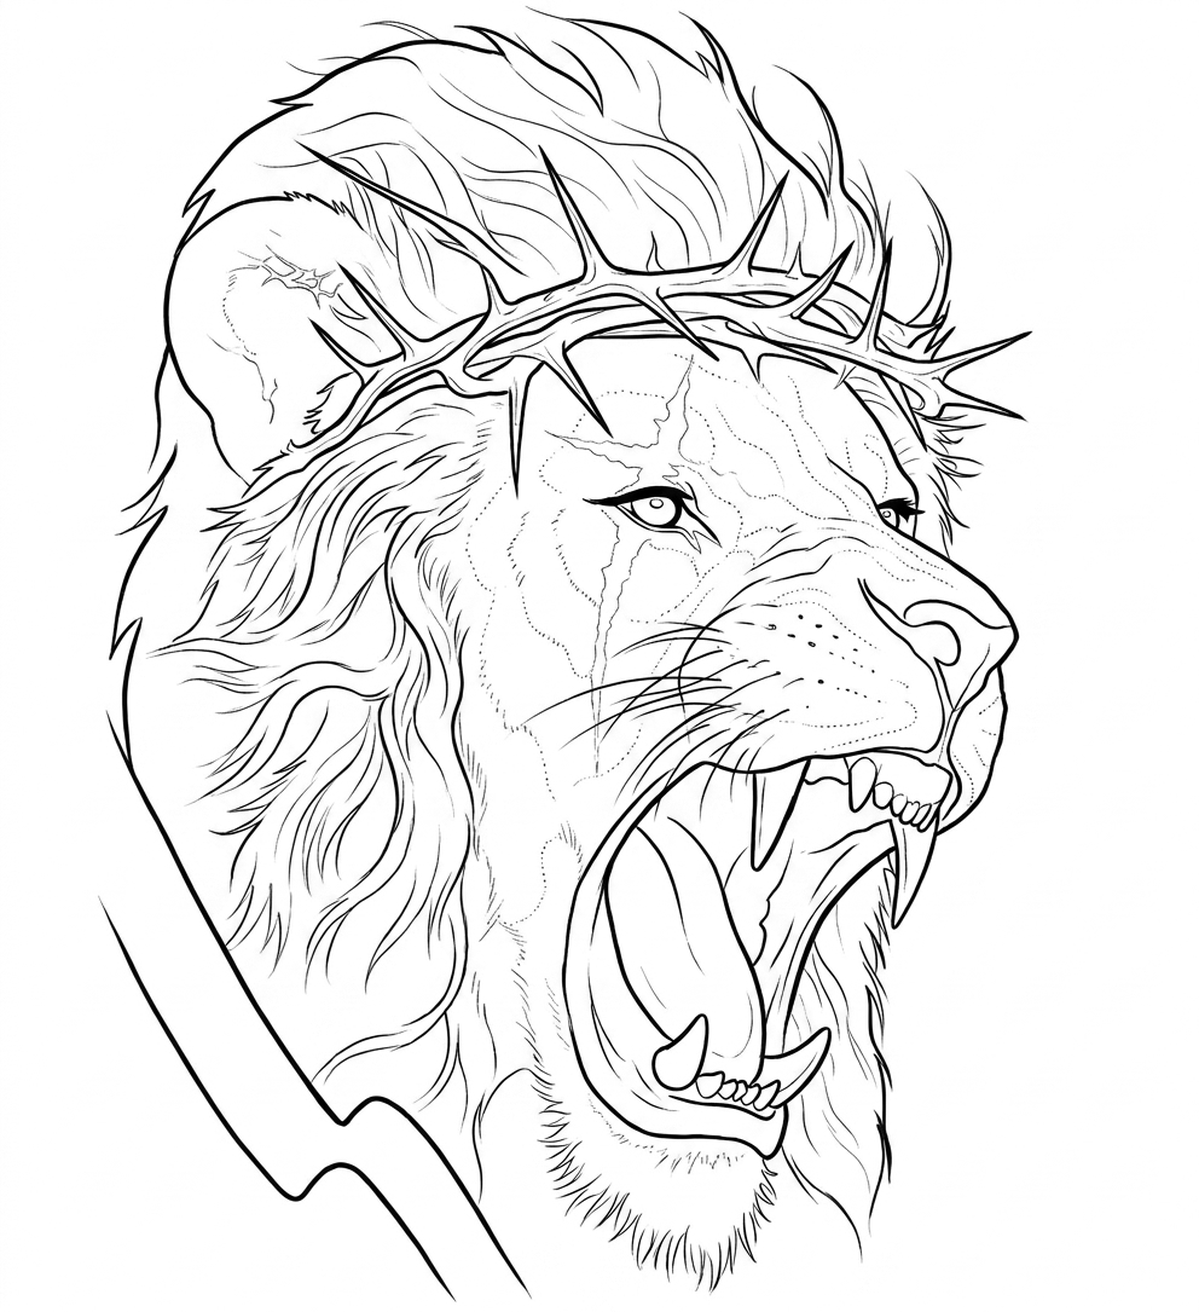
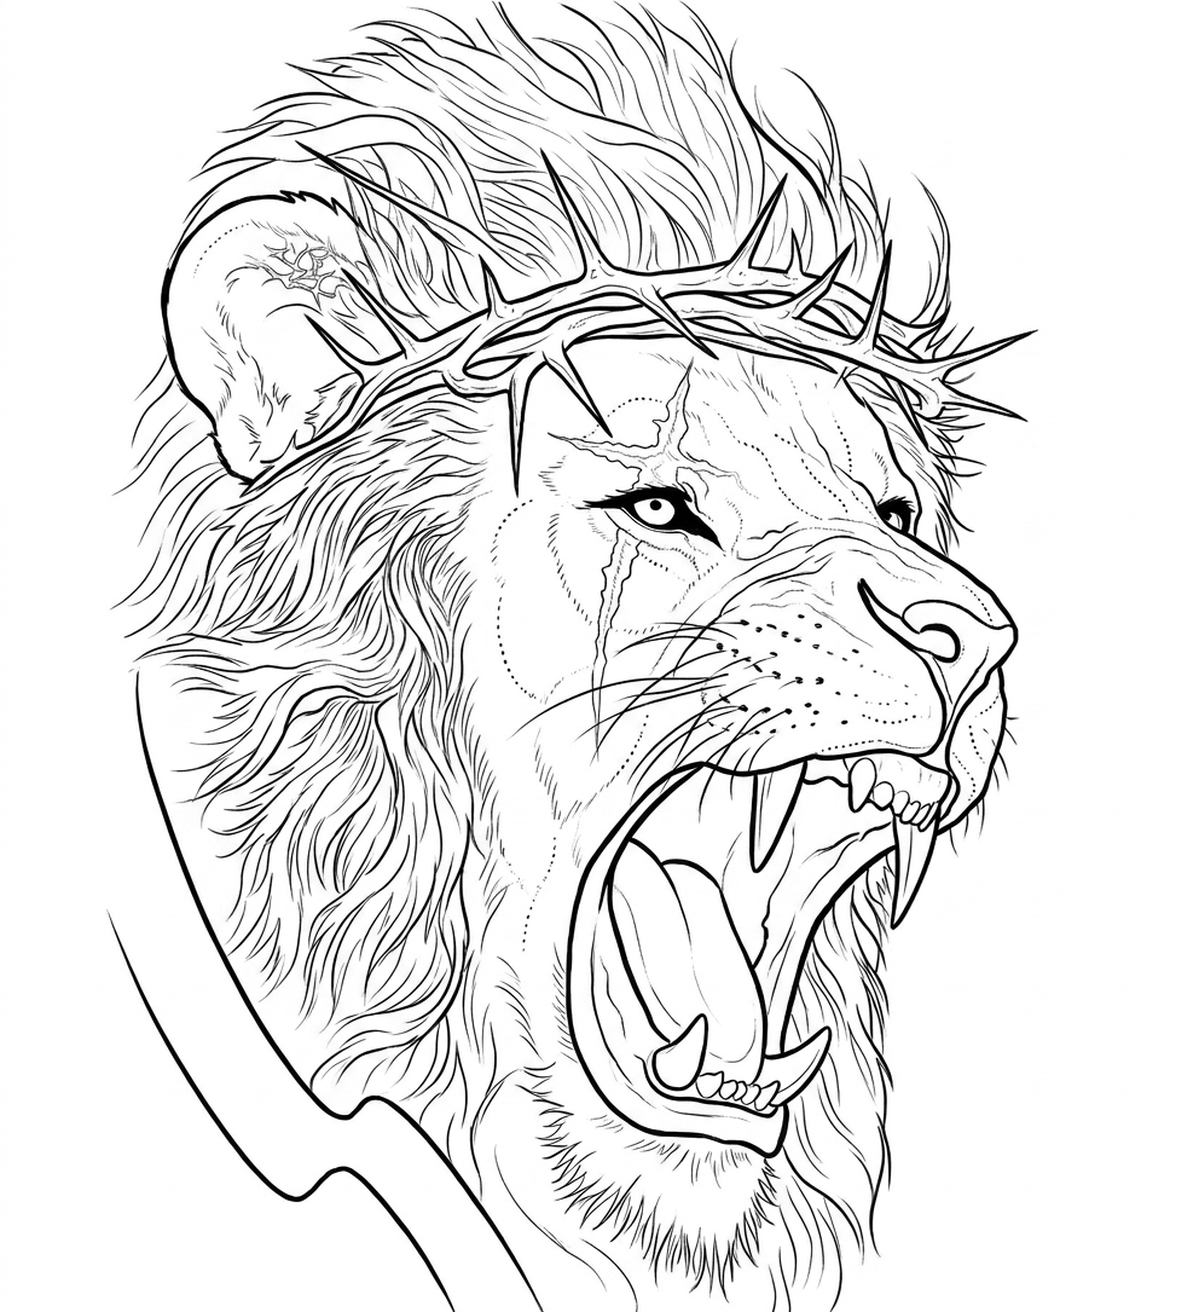
auto-commit for ed74ab05-57c7-44d5-9584-8d9af0164736

diff --git a/backend/static/blueprint_heavy.html b/backend/static/blueprint_heavy.html
@@ -25,6 +25,8 @@ h2{color:#c9a227;font-size:18px;margin:18px 0 10px}
     <li><b>Heavy+ detail policy:</b> preserve detail, reduce visual noise ~10–20%. Hair follows directional flow (not random strands). Texture is selective, not full-surface coverage. Facial dotted guides retained. Avoid clutter.</li>
     <li><b>Consistency:</b> <code>temperature=0.0</code> is now the default. Same reference → consistent structure → predictable line placement.</li>
     <li><b>Post-processing:</b> Otsu thresholding removed. Grayscale line values preserved → anti-aliased edges, line-weight variation, and dotted-line integrity now match the raw AI output. Background still removed via alpha channel (transparent PNG).</li>
+    <li><b>Refinement pass:</b> controlled clarity lift — subtle strand break-up (~10–15%), directional micro-lines + highlight-flow guides in hair, slightly clearer plane-change transitions on the face. No density increase, no fuzz. New marks REPLACE weak lines; they do not stack.</li>
+    <li><b>Detail priority:</b> STRUCTURE > FLOW > TEXTURE. Readability always wins.</li>
     <li><b>Removed entirely:</b> fill logic, shading generation, structure-altering "enhancement", random black region creation.</li>
   </ul>
 </div>

diff --git a/backend/server.py b/backend/server.py
@@ -1911,7 +1911,41 @@ def build_blueprint_prompt(line_color: str, detail_level: str) -> str:
             "- Avoid clutter, redundant micro-lines, and over-density. Every mark "
             "describes something the reference actually shows.\n"
             "- More detail never means more fill or more shading. More detail means "
-            "more directional, selective structural line work."
+            "more directional, selective structural line work.\n"
+            "\n"
+            "REFINEMENT PASS (applies on top of the detail policy above — a targeted "
+            "clarity improvement, not a density increase):\n"
+            "\n"
+            "1) Hair / fur clarity (controlled, ~10–15% lift only):\n"
+            "   - Slightly increase strand break-up — introduce subtle splits in a few "
+            "     strands (not all of them, not uniformly).\n"
+            "   - Add a small number of directional micro-lines that follow the natural "
+            "     flow of the hair/mane.\n"
+            "   - Add LIGHT flow guide-lines that trace the highlight paths in hair/fur "
+            "     — these mark where the light travels along the strands, NOT where "
+            "     shading goes. They remain line work, never fills, never shading.\n"
+            "   - Do NOT add fuzz, random texture, or uniform strand-field coverage. "
+            "     Every new mark follows the direction of flow.\n"
+            "\n"
+            "2) Structural plane clarity (face & major forms):\n"
+            "   - Slightly widen the line separation at major plane changes so the "
+            "     artist can read the form: cheek → jaw transition, brow → eye socket, "
+            "     nose bridge → cheek plane, temple → cheekbone.\n"
+            "   - DOTTED guides in these plane-change zones may be slightly more "
+            "     defined (clearer dot spacing) — but they remain dotted guides, never "
+            "     continuous tonal shading.\n"
+            "   - Do NOT add line count elsewhere on the face. Clarify transitions "
+            "     only where the form actually changes.\n"
+            "\n"
+            "3) Detail priority (strict ordering):\n"
+            "   - STRUCTURE > FLOW > TEXTURE. Readability always wins.\n"
+            "   - If a new detail would hurt readability, drop it.\n"
+            "\n"
+            "4) Noise budget:\n"
+            "   - The 10–20% noise reduction from the detail policy above still holds.\n"
+            "   - Any new refinement mark REPLACES a weaker line — it does not stack "
+            "     on top. Net mark count stays within the same budget.\n"
+            "   - If a region is already readable, add nothing."
         ),
     }
     detail_text = detail_blocks.get(detail_level, detail_blocks["moderate"])
